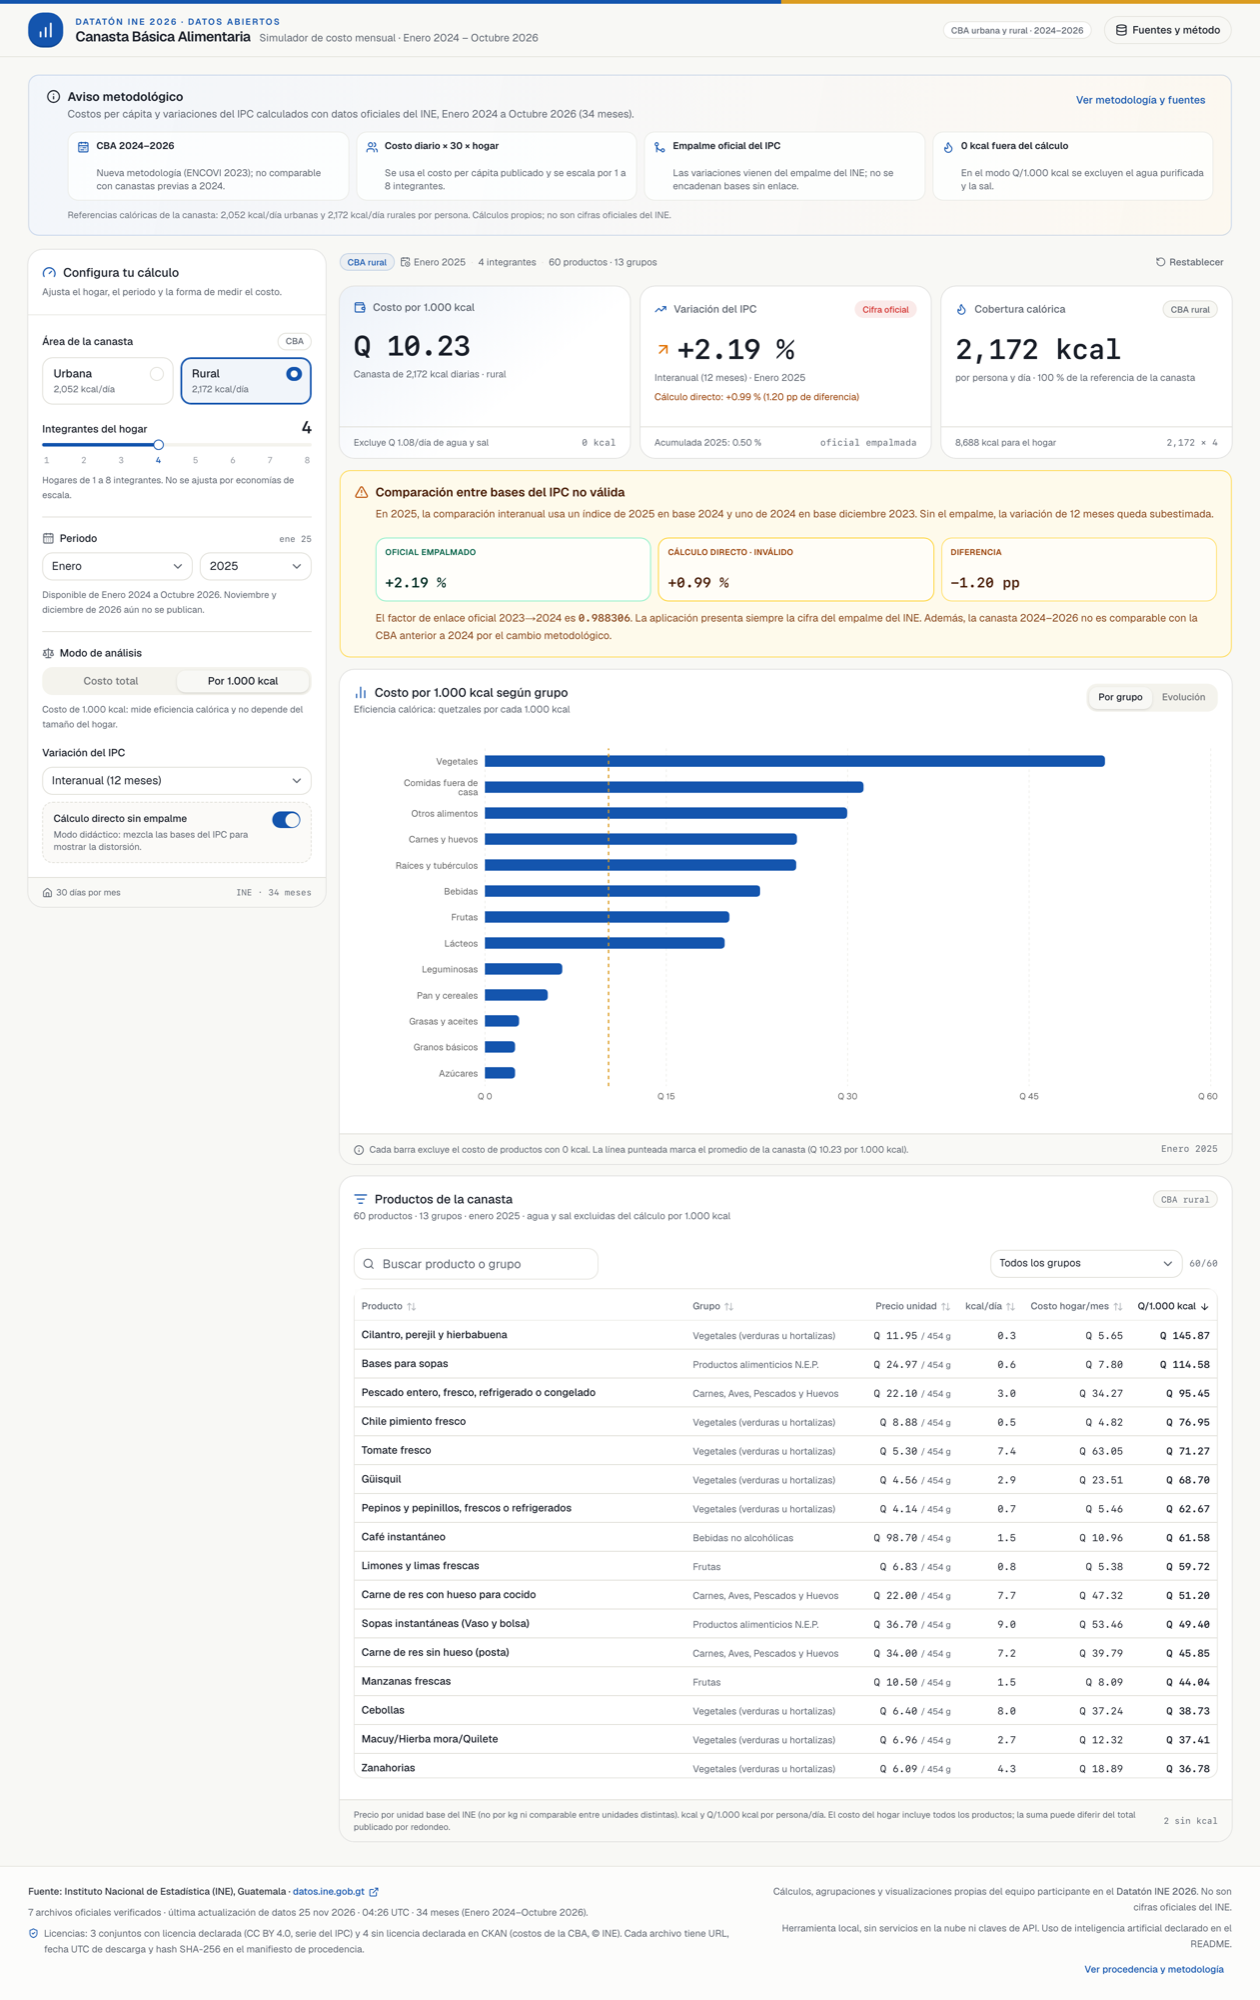
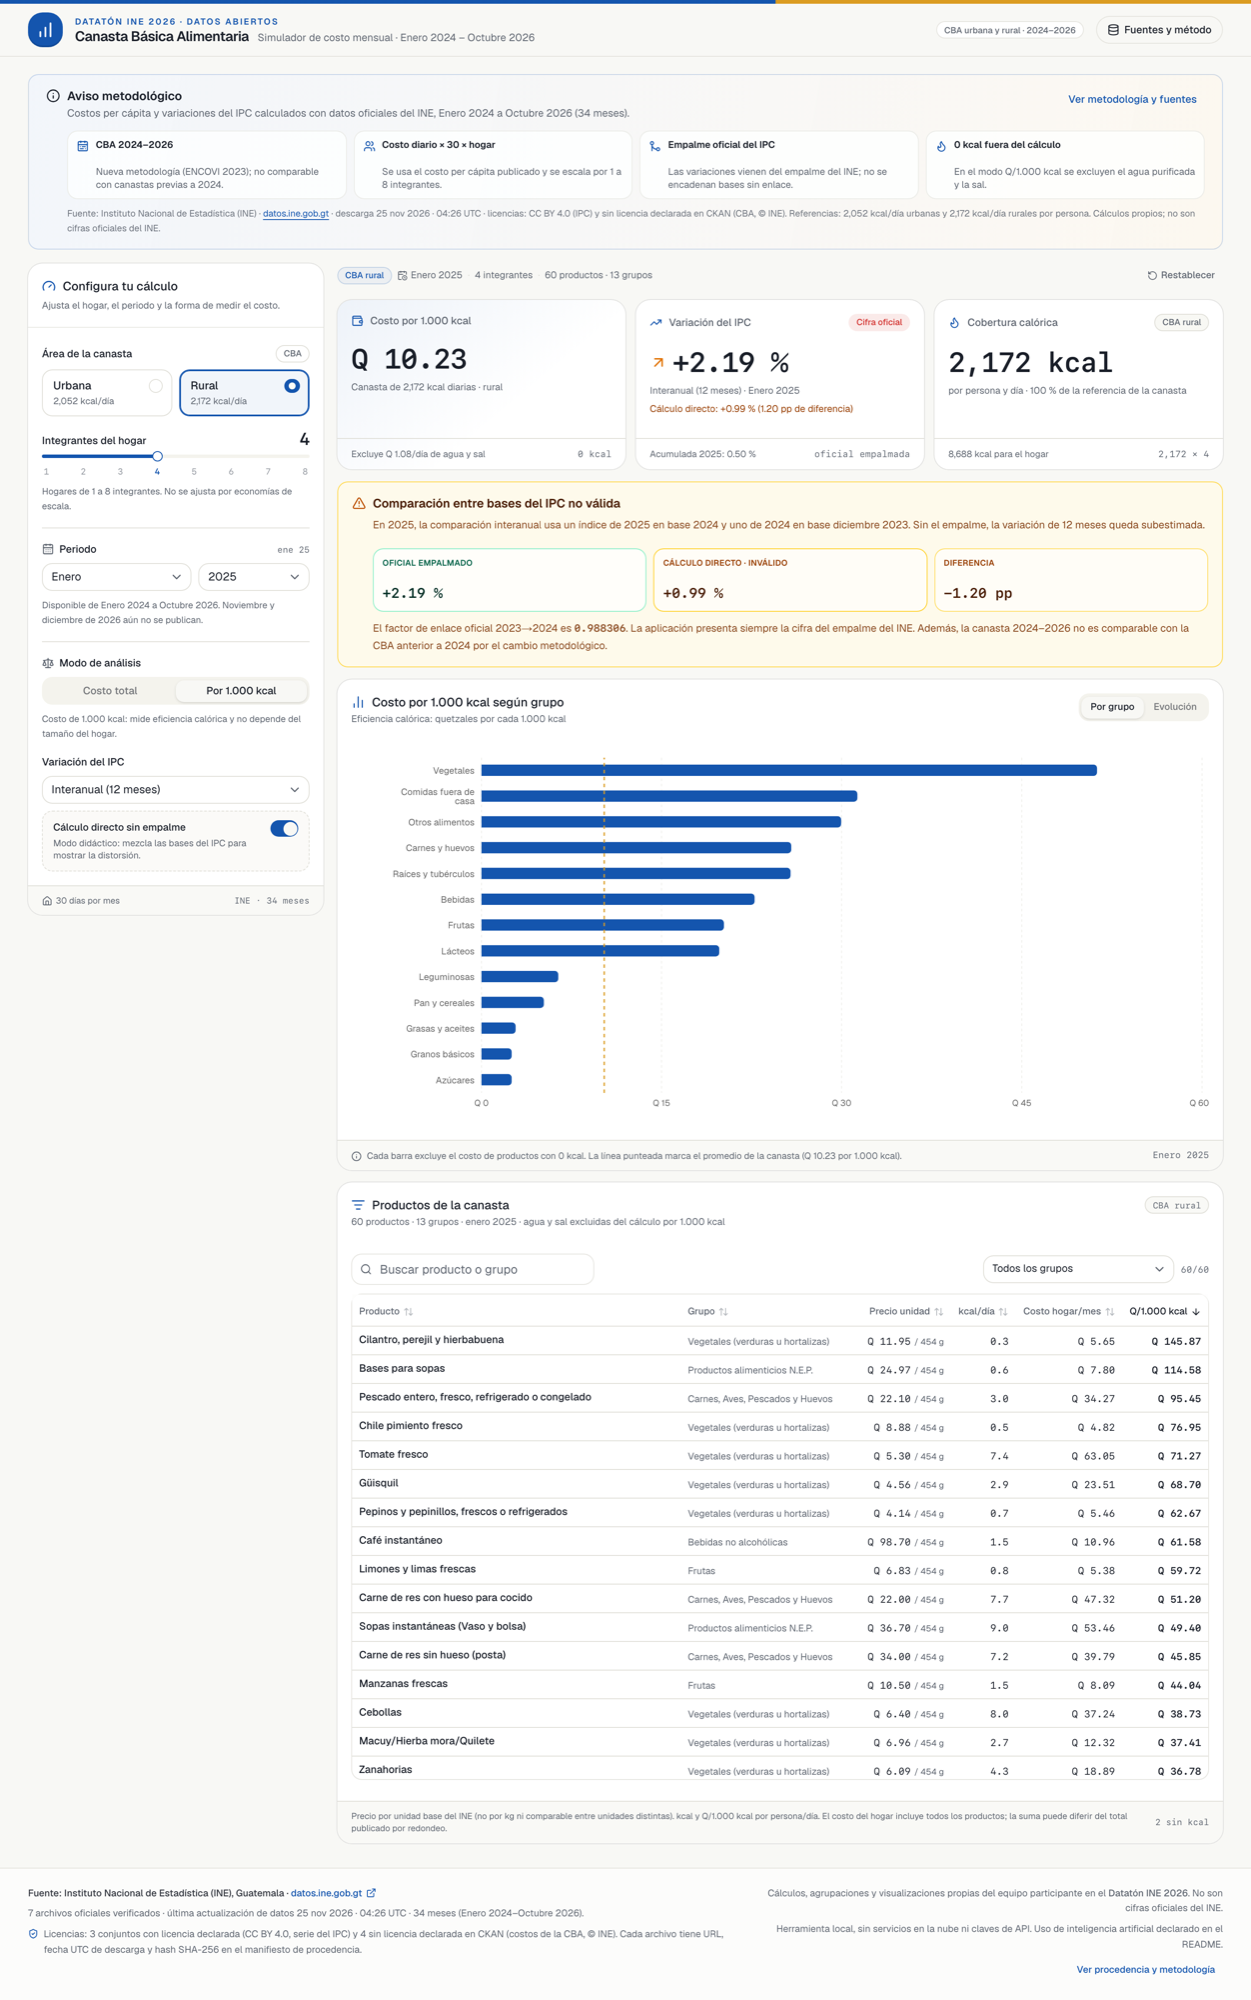
fix(ui): atribución visible y aviso del quiebre metodológico de 2024
- El aviso metodológico muestra fuente, portal, fecha UTC de descarga y estado
  de licencia, además de las referencias calóricas.
- Al seleccionar enero 2024 aparece un Alert que explica el inicio de la serie
  comparable y por qué no se ofrecen periodos anteriores.
- Capturas actualizadas.

diff --git a/web/src/components/notice-banner.tsx b/web/src/components/notice-banner.tsx
@@ -5,8 +5,8 @@ import { CalendarRange, Flame, GitMerge, Info, Users } from "lucide-react";
 import { SourcesDialog } from "@/components/sources-dialog";
 import { Alert, AlertDescription, AlertTitle } from "@/components/ui/alert";
 import { Button } from "@/components/ui/button";
-import { basketData } from "@/lib/data";
-import { formatNumber } from "@/lib/format";
+import { basketData, lastDataUpdate } from "@/lib/data";
+import { formatNumber, formatUtcStamp } from "@/lib/format";
 
 const FACTS = [
   {
@@ -91,7 +91,17 @@ export function NoticeBanner() {
           ))}
         </ul>
         <p className="mt-2 text-[10.5px] leading-relaxed text-muted-foreground/90">
-          Referencias calóricas de la canasta:{" "}
+          Fuente: Instituto Nacional de Estadística (INE) ·{" "}
+          <a
+            href="https://datos.ine.gob.gt"
+            target="_blank"
+            rel="noreferrer"
+            className="text-primary underline-offset-2 hover:underline"
+          >
+            datos.ine.gob.gt
+          </a>{" "}
+          · descarga {formatUtcStamp(lastDataUpdate())} · licencias: CC BY 4.0
+          (IPC) y sin licencia declarada en CKAN (CBA, © INE). Referencias:{" "}
           {formatNumber(meta.areas.Urbana.referenceKcal)} kcal/día urbanas y{" "}
           {formatNumber(meta.areas.Rural.referenceKcal)} kcal/día rurales por
           persona. Cálculos propios; no son cifras oficiales del INE.

diff --git a/web/src/components/methodology-break-alert.tsx b/web/src/components/methodology-break-alert.tsx
@@ -1,0 +1,26 @@
+"use client";
+
+import { Info } from "lucide-react";
+
+import { Alert, AlertDescription, AlertTitle } from "@/components/ui/alert";
+import { basketData } from "@/lib/data";
+
+export function MethodologyBreakAlert({ visible }: { visible: boolean }) {
+  if (!visible) return null;
+  const meta = basketData.meta;
+
+  return (
+    <Alert className="border-primary/20 bg-primary/[0.035] px-4 py-3 [&>svg]:text-primary">
+      <Info />
+      <AlertTitle className="text-[13px] font-semibold">
+        Inicio de la serie comparable · {meta.period.firstLabel}
+      </AlertTitle>
+      <AlertDescription className="mt-0.5 text-[11.5px] leading-relaxed text-muted-foreground">
+        La CBA 2024–2026 inaugura la metodología basada en la ENCOVI 2023. Los
+        periodos anteriores a 2024 no son comparables con esta canasta y el
+        simulador no los ofrece: cualquier serie que los cruce mezclaría dos
+        metodologías distintas.
+      </AlertDescription>
+    </Alert>
+  );
+}

diff --git a/web/src/components/simulator.tsx b/web/src/components/simulator.tsx
@@ -6,6 +6,7 @@ import { CalendarClock, RotateCcw } from "lucide-react";
 import { ControlPanel } from "@/components/control-panel";
 import { GroupChart } from "@/components/group-chart";
 import { MethodAlert } from "@/components/method-alert";
+import { MethodologyBreakAlert } from "@/components/methodology-break-alert";
 import { NoticeBanner } from "@/components/notice-banner";
 import { ProductsTable } from "@/components/products-table";
 import { SiteFooter } from "@/components/site-footer";
@@ -158,6 +159,8 @@ export function Simulator() {
                 month={month}
                 variation={variation}
               />
+
+              <MethodologyBreakAlert visible={period === meta.period.first} />
 
               <GroupChart
                 area={area}
